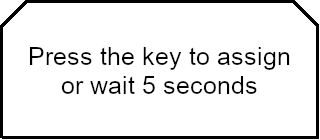
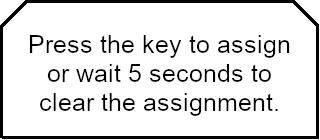
Adds bad option to clear key assignments. Better would be to use B or mouse_right, but that's kinda weird with the input system right now.

Changed region(s): [[0.0938, 0.2286, 0.9062, 0.8286]]

diff --git a/Game/Source/options.c b/Game/Source/options.c
@@ -288,6 +288,7 @@ void options_update()
     {
         if(options_assign_key.timer <= 0)
         {
+            options_input_copy[options_assign_key.inputid].configs[options_assign_key.slot].type = INPUT_TYPE_NONE;
             reset(options_pan_assignwindow, SHOW);
         }
         else

diff --git a/Game/Source/ui.c b/Game/Source/ui.c
@@ -83,7 +83,6 @@ void uisystem_update(uisystem_t * system)
 {
     if(system == NULL) error("uisystem: system must not be NULL!");
 
-
     uibutton_t * last = system->selected;
 
     // refresh all button positions and stuff

diff --git a/Game/Source/settings.c b/Game/Source/settings.c
@@ -68,7 +68,6 @@ void settings_load_from(STRING * fileName)
 
     if(ini_read_int(settings_file, "Input", "config_written", 0) == 1)
     {
-        error("ja!");
         settings.has_input_mapping = 1;
 
         int i,k;
